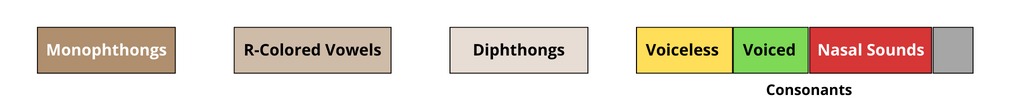
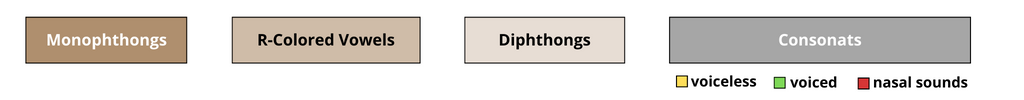
added new key

diff --git a/assets/css/style.css b/assets/css/style.css
@@ -70,13 +70,16 @@ button {
 }
 
 .voiceless {
-  background-color: rgb(228, 213, 83);
+  color: rgb(228, 213, 83);
+  background-color: #9d9d9c;
 }
 .voiced {
-  background-color: rgb(93, 206, 93);
+  color: rgb(28, 151, 28);
+  background-color: #9d9d9c;
 }
 .nasal-sounds {
-  background-color: rgb(182, 101, 101);
+  color: rgb(209, 43, 43);
+  background-color: #9d9d9c;
 }
 
 button:focus {
